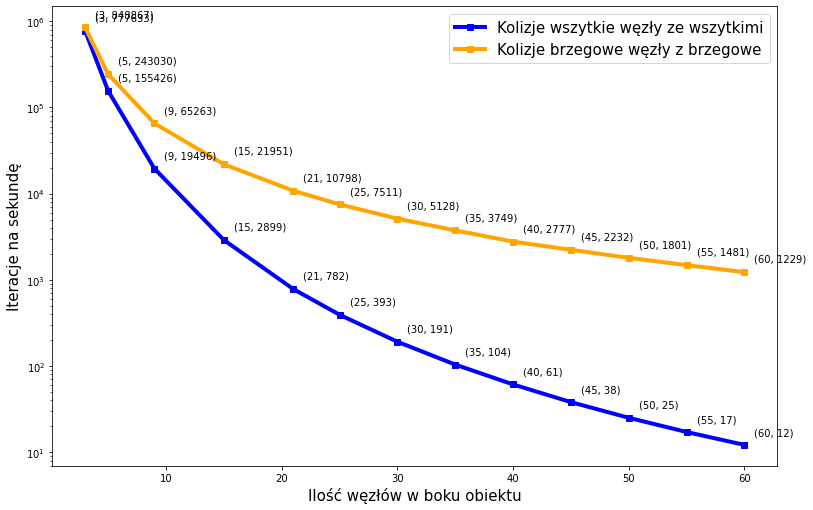
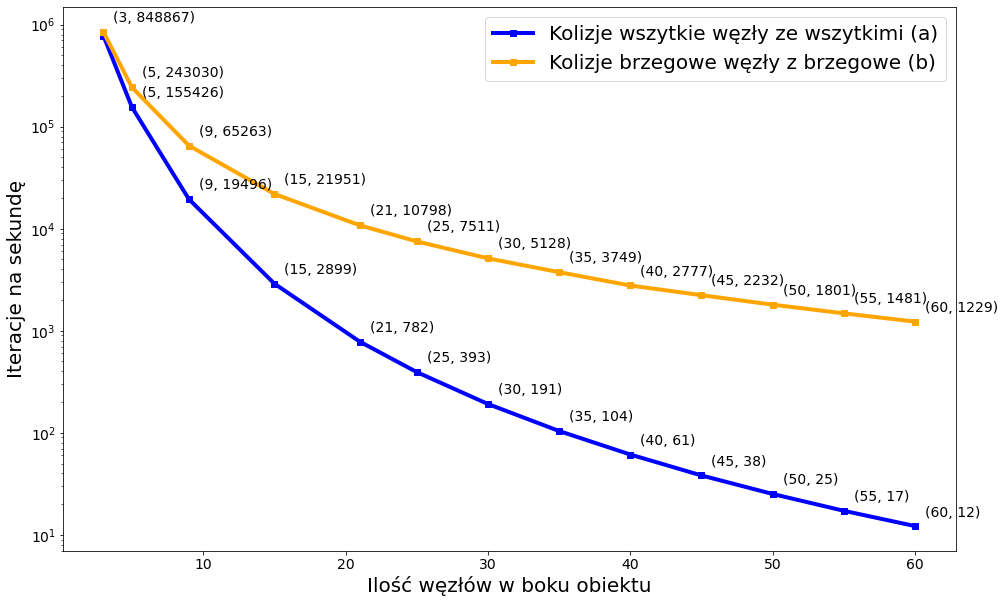
collision images added

diff --git a/doc/raport.tex b/doc/raport.tex
@@ -7,7 +7,7 @@
 \usepackage{wrapfig}
 \usepackage{subcaption}
 \usepackage{graphicx}
-\graphicspath{ {images/} }
+\graphicspath{ {images/} {images/collisions24x10_2x2} }
 
 \usepackage[margin=1.5cm]{geometry}
 
@@ -68,7 +68,7 @@
     \begin{figure}[h]
         \centering
         \includegraphics[width=13cm]{energy_test_0to2s}
-        \caption{Zmiana enegii w czasie dla układu w ciągu pierwszych 2 sekund}
+        \caption{Zmiana enegii w czasie dla układu w ciągu pierwszych 1.2 sekund}
     \end{figure}
 
     Przy zderzeniach pomiędzy obiektami oraz pomiędzy obiektem i podłożem energia potencjalna
@@ -122,39 +122,59 @@
     obiektów zagnieżdżonych w sobie. Przykładowa sytuacja, w której algorytm nie zadziała poprawnie
     to symulacja penetracji obiektu przy kuli/naboju.
 
+    \newpage
+    \subsection{Wyniki}
+    Rozpatrujemy scenariusz z dwoma obiektami, sprawdzamy liczbę iteracji symulacji na sekundę stopniowo
+    zwiększając liczbę węzłów w obydwóch obiektach. Test został wykonany na pojedynczym rdzeniu procesora AMD Ryzen 5 5600X, 
+    ilość węzłów w bokach obiektów ustawiana jest kolejno na: 3, 5, 9, 10, 15, 21, 25, 30, 35, 40, 45, 50, 55, 60.
+
+    \begin{figure}[h]
+        \centering
+        \includegraphics[width=15cm]{performance_side_size}
+        \caption{
+            Liczba iteracji na sekundę w zależności od 
+            ilości węzłów w bokach obiektów dla dwóch metod obsługi zderzeń
+        }
+    \end{figure}
+
+
+    Porównanie wydajności przypadku niezoptymalizowanego (a) i zoptymalizowanego (b):
     \begin{center}
         \begin{tabular}{||c c c c||} 
          \hline
          węzły w boku obiektu & $iteracje / [s]$ dla (a) & $iteracje / [s]$ dla (b) & krotność przyśpieszenia \\ [0.5ex] 
          \hline\hline
-         3 & 6 & 87837 & 787 \\ 
+         3 & 777633 & 848867 & 1.09 \\ 
          \hline
-         5 & 7 & 78 & 5415 \\
+         5 & 155426 & 243030 & 1.56 \\
          \hline
-         9 & 545 & 778 & 7507 \\
+         9 & 19496 & 65263 & 3.34 \\
          \hline
-         15 & 88 & 788 & 6344 \\
+         15 & 2899 & 21951 & 7.57 \\
          \hline
-         21 & 88 & 788 & 6344 \\
+         21 & 782 & 10798 & 13.79 \\
          \hline
-         25 & 88 & 788 & 6344 \\
+         25 & 393 & 7511 & 19.06 \\
          \hline
-         30 & 88 & 788 & 6344 \\
+         30 & 191 & 5128 & 26.76 \\
          \hline
-         35 & 88 & 788 & 6344 \\
+         35 & 104 & 3749 & 36.00 \\
          \hline
-         40 & 88 & 788 & 6344 \\ 
+         40 & 61 & 2777 & 45.33 \\ 
          \hline
-         45 & 88 & 788 & 6344 \\ 
+         45 & 38 & 2232 & 58.43 \\ 
          \hline
-         50 & 88 & 788 & 6344 \\
+         50 & 25 & 1801 & 71.63 \\
          \hline
-         55 & 88 & 788 & 6344 \\ 
+         55 & 17 & 1481 & 86.11 \\ 
          \hline
-         60 & 88 & 788 & 6344 \\ [1ex] 
+         60 & 12 & 1229 & 100.88 \\ [1ex] 
          \hline
         \end{tabular}
     \end{center}
+    
+    Dla większych obiektów zyski z zastosowanej optymalizacji są bardzo duże. Dla dwóch obiektów
+    $60 \times 60$ ilość iteracji dla przypadku zoptymalizowanego jest ponad $100$ razy większa.
 
 \chapter{Zakończenie}
     \section{Dodatek}
@@ -163,13 +183,13 @@
 
     \subsubsection{Przekazanie energii między dwoma sztywnimi obiektami}
 
-    Mniejszy obiekt $3 \times 3$ po odbiciu od większego obiektu $8 \times  8$ znajdującego się pod nim wznosi się na
+    Mniejszy obiekt $3 \times 3$ po odbiciu od większego obiektu $8 \times  8$ znajdującego się 
+    pod nim wznosi się na
     wysokość o wiele większą, niż ta z której rozpoczął spadek swobodny.
     Występuje tutaj przekazanie części energii z obiektu większego do mniejszego - sama zasada energii jest zachowana.
-
-    \paragraph{
-        \url{https://youtu.be/nolLh6CSa-8}
-    }
+    \\
+    \\
+    \url{https://youtu.be/nolLh6CSa-8}
 
     \subsubsection{Przekazanie energii między dwoma miękkimi obiektami}
     W tym przypadku obiekty są mniej sztywne,
@@ -177,20 +197,17 @@
     (jednak wciąż wyżej niż punkt z którego zaczął spadać). Można to wytłumaczyć tym,
     że znaczna część energii która w poprzednim przypadku była częścią ruchu postępowego,
     teraz stała się energią wewnętrzną obiektów (wibracje obiektów pochłaniają część energii).
-
-    \paragraph{
-        \url{https://youtu.be/q2uYx8uLl3w}
-    }
+    \\
+    \\
+    \url{https://youtu.be/q2uYx8uLl3w}
 
     \subsubsection{Proste zderzenie dwóch obiektów}
-    \paragraph{
-        \url{https://www.youtube.com/watch?v=4cGcL_5yUt4}
-    }
+    \url{https://www.youtube.com/watch?v=4cGcL_5yUt4}
 
     \subsection{Repozytorium}
     Repozytorium z kodem projektu znajduje się pod adresem:
-    \paragraph{
-        \url{https://github.com/theYiome/elastic-objects-rs}
-}
+    \\
+    \\
+    \url{https://github.com/theYiome/elastic-objects-rs}
 
 \end{document}

diff --git a/src/scenes/standard.rs b/src/scenes/standard.rs
@@ -4,8 +4,9 @@ use crate::{build_scene, energy, graphics, simulation_cpu};
 
 use glium::glutin::event_loop;
 use glium::{glutin, Surface};
+use glutin::event::{KeyboardInput, ElementState};
 use glutin::{
-    event::{Event, WindowEvent},
+    event::{Event, WindowEvent, VirtualKeyCode},
     event_loop::ControlFlow,
 };
 
@@ -18,13 +19,13 @@ pub fn run_with_animation() {
     let object1_sy = 12;
     let object1_st = object1_sx * object1_sy;
 
-    let object2_sx = 3;
-    let object2_sy = 4;
+    let object2_sx = 2;
+    let object2_sy = 2;
     let object2_st = object2_sx * object2_sy;
 
     let spacing1 = 0.08;
     let mut nodes =
-        build_scene::build_rectangle(object1_sx, object1_sy, spacing1, -0.92, -0.925, 1.0, 10.0);
+        build_scene::build_rectangle(object1_sx, object1_sy, spacing1, -0.92, -0.925, 1.0, 5.0);
     let mut connections_map_1 = build_scene::build_connections_map(&nodes, spacing1 * 1.5, 70.0, 0);
     {
         let mut obj: Vec<usize> = Vec::new();
@@ -36,7 +37,7 @@ pub fn run_with_animation() {
 
     let spacing2 = 0.15;
     let mut nodes2 =
-        build_scene::build_rectangle(object2_sx, object2_sy, spacing2, -0.12, 0.8, 35.0, 2.0);
+        build_scene::build_rectangle(object2_sx, object2_sy, spacing2, -0.12, 0.8, 80.0, 1.0);
     let connections_map_2 = build_scene::build_connections_map(&nodes2, spacing2 * 1.5, 500.0, object1_st);
     nodes.append(&mut nodes2);
     {
@@ -82,6 +83,7 @@ pub fn run_with_animation() {
     let mut current_log_dt = 0.0;
 
     let mut egui = egui_glium::EguiGlium::new(&display);
+    let mut egui_active = true;
 
     let mut now = std::time::Instant::now();
     // let mut last_frame_time = std::time::Instant::now();
@@ -94,7 +96,7 @@ pub fn run_with_animation() {
     // let device = *Device::all().first().unwrap();
     // let opencl_program = opencl(&device);
 
-    let mut redraw_clousure = move |display: &glium::Display, egui: &mut egui_glium::EguiGlium| {
+    let mut redraw_clousure = move |display: &glium::Display, egui: &mut egui_glium::EguiGlium, egui_active: bool| {
         // let measured_dt = last_frame_time.elapsed().as_secs_f32();
         // last_frame_time = std::time::Instant::now();
         // let dt = if measured_dt > 0.01 {0.01} else {measured_dt};
@@ -187,7 +189,9 @@ pub fn run_with_animation() {
             .unwrap();
 
         // draw egui
-        egui.paint(&display, &mut target, egui_shapes);
+        if egui_active {
+            egui.paint(&display, &mut target, egui_shapes);
+        }
 
         // draw things on top of egui here
         target.finish().unwrap();
@@ -198,10 +202,10 @@ pub fn run_with_animation() {
                           control_flow: &mut ControlFlow| {
         match event {
             glutin::event::Event::RedrawEventsCleared if cfg!(windows) => {
-                redraw_clousure(&display, &mut egui)
+                redraw_clousure(&display, &mut egui, egui_active)
             }
             glutin::event::Event::RedrawRequested(_) if !cfg!(windows) => {
-                redraw_clousure(&display, &mut egui)
+                redraw_clousure(&display, &mut egui, egui_active)
             }
 
             glutin::event::Event::WindowEvent { event, .. } => {
@@ -209,17 +213,22 @@ pub fn run_with_animation() {
                 match event {
                     WindowEvent::CloseRequested {} => {
                         *control_flow = glutin::event_loop::ControlFlow::Exit;
-                    }
+                    },
+                    WindowEvent::KeyboardInput {device_id: _, input, is_synthetic: _} => {
+                        if input.virtual_keycode == Some(VirtualKeyCode::F1) && input.state == ElementState::Pressed {
+                            egui_active = !egui_active;
+                        }
+                    },
                     _ => (),
                 }
                 display.gl_window().window().request_redraw();
             }
             glutin::event::Event::RedrawRequested { .. } => {
-                redraw_clousure(&display, &mut egui);
+                redraw_clousure(&display, &mut egui, egui_active);
                 display.gl_window().window().request_redraw();
             }
             Event::MainEventsCleared => {
-                redraw_clousure(&display, &mut egui);
+                redraw_clousure(&display, &mut egui, egui_active);
                 display.gl_window().window().request_redraw();
             }
             _ => (),

diff --git a/src/graphics.rs b/src/graphics.rs
@@ -152,7 +152,7 @@ pub fn draw_scene(
     }
 
     for n in nodes {
-        let color = n.velocity.length_squared() * 0.5 * 0.5;
+        let color = n.velocity.length_squared() * 0.5 * 0.7;
         graphics::add_circle(
             &mut verticies,
             &mut indices,
